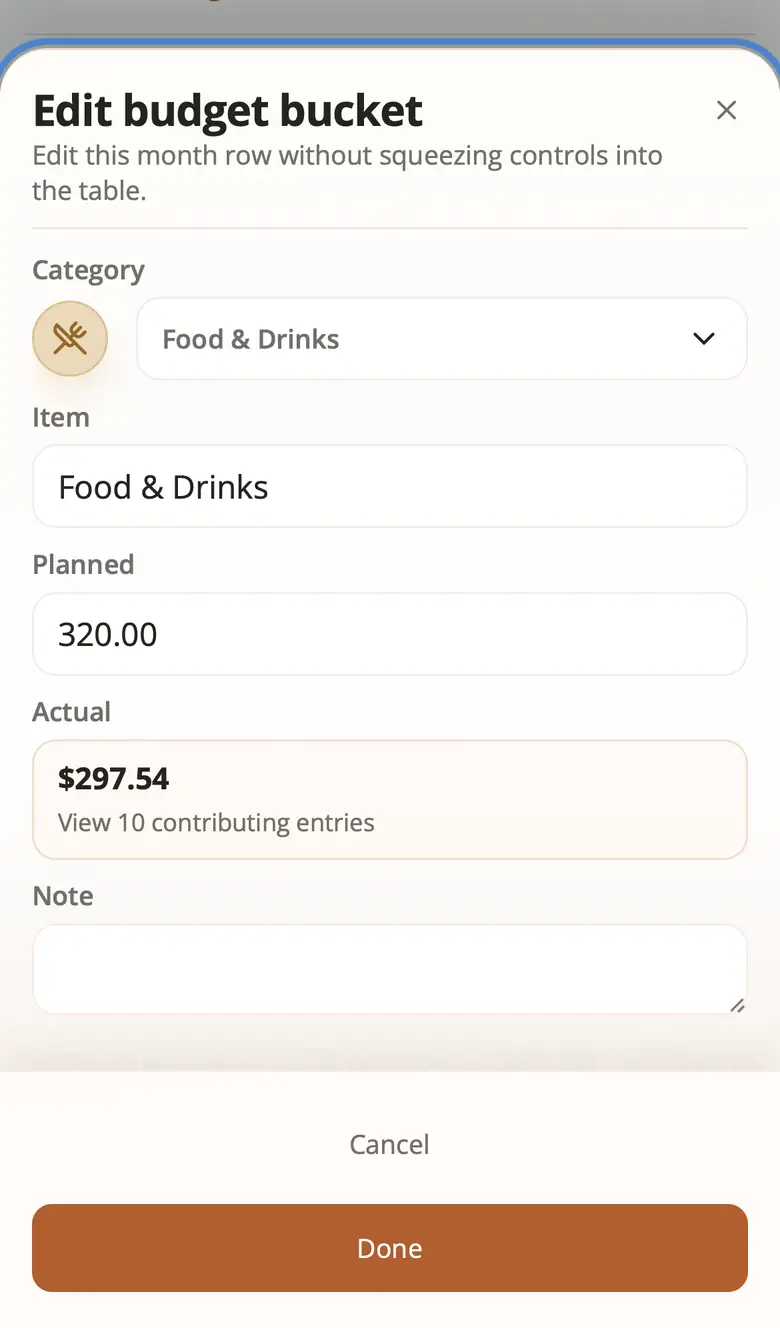
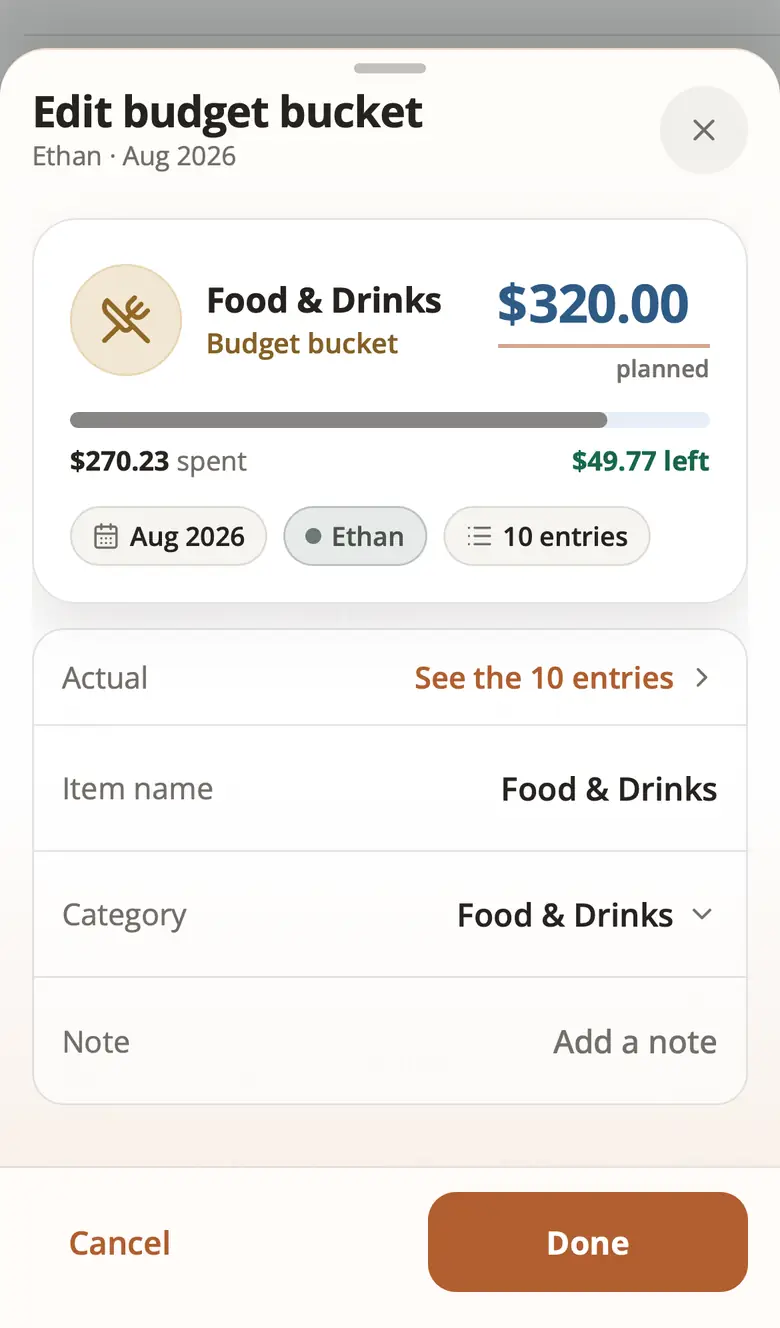
Document swipe down to close, the discard rule and the new copy
design.md gets the sheet gesture and its discard rule; the flow docs,
the user guide (swipe down to close, Discard changes?) and the developer
guide cover the lock line, the renamed Splits title and the Claude line.
The phone plan-sheet screenshot shows the grab bar.

diff --git a/design.md b/design.md
@@ -351,7 +351,9 @@ data in `claude-credit-status.js`. Flow:
   Apple Pay shortcut) shows the same sentence as text in the tone's ink
   (plain ink when fine), the two actions as neutral pills, and "Last
   checked …" muted; with Claude not set up, only the calm line "Claude
-  isn't set up, so Ask uses the basic model."
+  isn't set up, so Ask uses the basic model."; set up but not answered yet
+  (state unknown, no failure recorded), only "Claude hasn't been used
+  yet."
 
 ## Lead · Support · Detail
 
@@ -498,7 +500,10 @@ Where it is used:
 - The Entries edit sheet and inline editor (`entry-edit-card.jsx`). Lead:
   the category bubble (opens the category editor), what it was and the
   amount, typed in place unless a statement certified them (then read-only,
-  with the existing lock line under the card). The amount field shows
+  with the short lock line under the card, "Bank details are locked to the
+  statement. Category, owner, note and splits stay editable."; the full rule,
+  with the type choice, is the Statement certified chip's `title` and
+  accessible description). The amount field shows
   money with two decimals ("64.20") until it is focused and the raw text
   while it is typed in (`leadAmountFieldValue`). Support: date, wallet,
   owner, bank state. Detail: Category, Owner, Splits ("Add to splits" or
@@ -509,7 +514,7 @@ Where it is used:
   keeps an inline field, so Tab walks description, amount, the eye, then the
   rows in order. Delete entry (and Delete split once it is on Splits),
   Cancel and Save are in the bottom bar.
-- Create split expense (`split-expense-card.jsx`, from the Splits dialog in
+- New split expense (`split-expense-card.jsx`, from the Splits dialog in
   both layouts; editing and viewing a saved split keep the form for now).
   Lead: the group bubble (terracotta; a plane for a foreign currency
   group), what it was, the group, and the total in the group currency
@@ -1317,8 +1322,9 @@ not inside it, because closing the popover unmounts its content.
 ## Mobile Sheet
 
 `entry-mobile-sheet.jsx` (`EntryMobileSheet`) is the bottom sheet for the
-Month plan sheets and the Entries add and edit sheets. It behaves like the
-modal desktop dialogs:
+Month plan sheets, the Entries add and edit sheets, the import progress
+sheet and the Claude "I've topped up" sheet. It behaves like the modal
+desktop dialogs, and swipes down to close (below):
 
 - Focus moves into the sheet on open. The sheet itself takes focus, not a
   field, so opening it does not raise the phone keyboard.
@@ -1375,6 +1381,44 @@ modal desktop dialogs:
   by unit test and on a real phone only.
 - `headerAction` adds a control before the close button (the Entries edit
   sheet's money eye) and `className` a variant (`is-lead-sheet`).
+- Swipe down to close (`sheet-swipe.jsx`, rules in the pure
+  `sheet-swipe-controller.js`). The phone Splits expense dialog uses the
+  same hook. A grab bar sits in the sheet's top padding (drawn only:
+  `aria-hidden`, not a tap target; the ✕ and Cancel stay the keyboard and
+  screen-reader ways out). The sheet follows the finger; released past
+  30% of its height (80 to 160 px) or flicked down (0.6 px/ms, 24 px or
+  more) it is dismissed.
+  - Discard rule: each sheet passes `isDirty`, whether its draft changed
+    since it opened (the Entries edit sheet's `hasEditingEntryChanges`; the
+    others `useDraftChanged(draft, pickFields)`, which keeps the draft it
+    opened with). Unchanged, the swipe closes it straight away. Changed, it
+    springs back and asks "Discard changes?" in a bar at the sheet's bottom,
+    under the thumb: **Discard** (destructive, `lsd-quiet is-danger`) closes
+    it through the sheet's own close (the same as Cancel), **Keep editing**
+    (`lsd-primary`, focused) keeps the draft. Escape or a tap outside while
+    it asks means Keep editing. Never a system confirm. The form behind is
+    `inert` while it asks.
+  - Where a drag may start: the grab bar and header, or the body
+    (`data-sheet-body`) while it is scrolled to its top. Never from a text
+    field, an active text selection, a long press (500 ms before moving),
+    content scrolled away from its top, or a scrollable list or chip row
+    inside the body (`.planned-link-list`, a sideways chip row): those keep
+    every touch. Sideways or upward movement hands the gesture back to the
+    browser.
+  - Scrolling stays native: `touchstart` is passive, `touchmove` cancels
+    only a move the controller claimed for the sheet (a clearly downward
+    one), and the sheet never sets `touch-action`. A touchmove the browser
+    already made uncancelable (it started scrolling) ends the drag. A click
+    right after a drag is eaten, so a drag never taps a row.
+  - While `isSubmitting` the swipe is ignored, as Escape is.
+  - `prefers-reduced-motion`: the sheet still follows the finger (direct
+    manipulation), but springing back and sliding away are instant.
+  - The styles (`sheet-swipe.css`) and copy (`copy/sheet-swipe-copy.js`)
+    ship with the routes, not the first screen.
+    `tests/sheet-swipe-controller.test.mjs` proves the rules and pins every
+    sheet's `isDirty`; `tests/e2e/sheet-swipe-dismiss.spec.js` proves them
+    in WebKit (iPhone 13) and Chromium, including real CDP touch scrolling
+    of the body and of a long list inside a sheet.
 - The opener is found by `sheet-focus-return.js`, not from
   `document.activeElement` alone: iPhone and iPad Safari (WebKit) do not
   focus a tapped or clicked button, so after a tap `activeElement` is

diff --git a/docs/user-guide.md b/docs/user-guide.md
@@ -181,7 +181,12 @@ The app is designed for phones as well as desktops. The differences:
   with **‹** and **›** to step to the month before or after.
 - **Edit sheets.** Adding or editing a row opens a sheet from the bottom of
   the screen instead of editing inside the table. **Done** or **Save** saves;
-  **Cancel**, the ✕ or tapping outside closes it without saving. On Month the
+  **Cancel**, the ✕ or tapping outside closes it without saving. You can also
+  swipe the sheet down to close it (the small bar at the top shows where to
+  grab). If you have changed something, it springs back and asks
+  **Discard changes?**: **Keep editing** takes you back with your changes,
+  **Discard** closes it without saving. While a save is running, a swipe does
+  nothing. On Month the
   sheet starts with the planned amount: tap it to type a new one. Under it, a
   bar shows what has been spent against the plan and what is left (or how
   much it is over). The other fields are rows below it: tap a row to change
@@ -745,7 +750,9 @@ it.
 - **Ask and AI**: how much Claude credit Ask has left, with **Top up in the
   Claude Console** and **I've topped up**, and when it was last checked
   ([When Claude credits run low](#when-claude-credits-run-low)). If Claude
-  isn't set up, it says so: Ask then uses the basic model.
+  isn't set up, it says so: Ask then uses the basic model. If Claude is set
+  up but nobody has asked it anything yet, it says Claude hasn't been used
+  yet.
 - **Payment ways**: the account each person's PayNow, bank transfers and
   cash come from ([Choose your payment ways](#choose-your-payment-ways)).
 - **Categories**: the categories used everywhere, with their icon and colour.
@@ -1319,7 +1326,7 @@ There are two ways, depending on where the expense is.
    **More details** on a phone).
 6. Select **Save expense**.
 
-![Create split expense: the card with the total, then a row for each share, the category and group](/faq/guide/desktop/thumbs/splits-add-expense.webp)
+![New split expense: the card with the total, then a row for each share, the category and group](/faq/guide/desktop/thumbs/splits-add-expense.webp)
 
 A split made here is not linked to a bank row yet. When the bank row arrives,
 link it instead of adding it again ([Link a bank row to a split](#link-a-bank-row-to-a-split-you-entered-earlier)).
@@ -1740,7 +1747,10 @@ split is refused, with the same undo button.
 An entry marked **Statement certified** was confirmed by a bank statement, so
 its date, description, wallet and amount are locked, and so is whether the
 money came in or went out. You can still change the category, note, owner and
-splits.
+splits. The line under the entry card says so in short: "Bank details are
+locked to the statement. Category, owner, note and splits stay editable."
+Point at (or, with a screen reader, move to) the **Statement certified** chip
+for the full rule.
 
 The type can still change within the same direction. Money in can be
 **Income** or **Transfer** in, for example a credit from your own account

diff --git a/docs/flows/entries-flow.md b/docs/flows/entries-flow.md
@@ -63,7 +63,12 @@ Empty views use the shared `EmptyState` ("No entries match this view.", or
 the wallet-view mismatch block with its two view buttons). The mobile add
 and edit sheets are modal dialogs. Escape closes them, except while a save
 or delete is in flight, and focus returns to the opener. Sheet errors are
-announced as alerts.
+announced as alerts. Both swipe down to close (design.md "Mobile Sheet"):
+the edit sheet reads `hasEditingEntryChanges` and the add sheet compares
+the draft with the one it opened with (`useDraftChanged`), so a changed
+draft springs back and asks "Discard changes?" instead of closing;
+`sheet-swipe-dismiss.spec.js` proves it on an iPhone 13 profile and in
+Chromium.
 
 The edit sheet (phone) and the inline editor (wide screen) both render
 `EntryEditCard` (`entry-edit-card.jsx`, design.md "Lead · Support ·
@@ -73,7 +78,11 @@ Detail rows. It patches the same draft through the same `updateEntry`,
 payload is unchanged; the Splits row runs the same Add to splits / View
 split actions, Delete entry goes through the in-app confirmation, and a
 statement-certified entry keeps its bank facts read-only (description,
-amount, date, wallet, posted date; type within its direction). The phone
+amount, date, wallet, posted date; type within its direction). Its line
+under the card is the short "Bank details are locked to the statement.
+Category, owner, note and splits stay editable."; the full rule
+(`getBankFactsLockMessage`) is the Statement certified chip's `title` and
+accessible description. The phone
 sheet's bottom bar holds Delete entry (and Delete split once linked),
 Cancel or Close, and Save; while Add to splits asks for a group, the bar
 becomes the group question (`EntrySplitGroupPickerFooter`). The add sheet

diff --git a/docs/flows/settings-flow.md b/docs/flows/settings-flow.md
@@ -65,8 +65,10 @@ out. Opened, the section shows the same status line as the Ask notice
 (`buildClaudeCreditLine`; "Claude credits are fine: about $X of $Y used."
 when fine, figures dropped with money hidden), the "Top up in the Claude
 Console" link and "I've topped up", and "Last checked" with the time the
-status was read. When Claude is not set up (or the state is unknown) it
-shows only "Claude isn't set up, so Ask uses the basic model." I've topped
+status was read. When Claude is not set up (or the state is unknown after a
+failure) it shows only "Claude isn't set up, so Ask uses the basic model.";
+set up but not answered yet (state unknown, no failure recorded) it shows
+only "Claude hasn't been used yet." I've topped
 up opens the same form as on Ask and posts
 `POST /api/ai-assist/provider-status/topped-up { creditUsd }`; its answer
 replaces the kept status. Nothing else on Settings refreshes. Design and

diff --git a/docs/flows/month-flow.md b/docs/flows/month-flow.md
@@ -58,7 +58,10 @@ had; `tests/e2e/lead-support-detail.spec.js` checks the save, Cancel, the
 tap targets (44px or more), hidden money and a failed save on an iPhone 13
 profile (tagged `@webkit`). There is no client check of the planned amount:
 text that is not a number saves as its digits, or $0.00, as before. The
-sheet has no swipe-down gesture. Like every bottom sheet with a bottom bar
+sheet swipes down to close (design.md "Mobile Sheet"): unchanged it closes,
+and with a changed planned amount, name, category, day, account or note it
+springs back and asks "Discard changes?"; the match sheet counts only the
+ticked entries as its draft, not the filters. Like every bottom sheet with a bottom bar
 it lifts itself above the iPhone keyboard (`EntryMobileSheet` uses
 `use-keyboard-inset.js`), so Done and the focused field stay in sight;
 `tests/keyboard-inset.test.mjs` pins the wiring and the hook's behaviour

diff --git a/docs/developer-guide.md b/docs/developer-guide.md
@@ -427,7 +427,9 @@ in-app form that posts the top-up route and keeps its answer as the new
 status) and a dismiss kept in sessionStorage
 (`monies.claudeCreditNotice.v1`) until the state gets worse. Settings →
 Ask and AI shows the same line, the two actions and when it was last
-checked, or "Claude isn't set up, so Ask uses the basic model." A viewer
+checked, or "Claude isn't set up, so Ask uses the basic model." (or
+"Claude hasn't been used yet." when Claude is set up, the state is unknown
+and no failure is recorded). A viewer
 the GET answers `{ visible: false }` sees neither. `wrangler.test.jsonc`
 sets no `AI_ALERT_EMAILS`, so the browser tests stub the route for each
 state (`tests/e2e/claude-credit-notice.spec.js`; the phone tests also run

diff --git a/docs/flows/splits-flow.md b/docs/flows/splits-flow.md
@@ -103,6 +103,11 @@ Watch area:
   `lead-support-detail-sheets.spec.js` proves the saved totals and shares
   for an even and an uneven split, the existing refusals, tap targets and
   hidden money on a phone
+- the new expense dialog is titled "New split expense" (editing keeps "Edit
+  split"). On a phone the expense dialog is a bottom sheet that swipes down
+  to close: unchanged it closes; changed since it opened
+  (`buildComparableSplitDraft`) it springs back and asks "Discard changes?"
+  (`sheet-swipe-dismiss.spec.js`). The settlement dialog does not swipe yet
 
 ## Known Exceptions / Watch Areas
 
